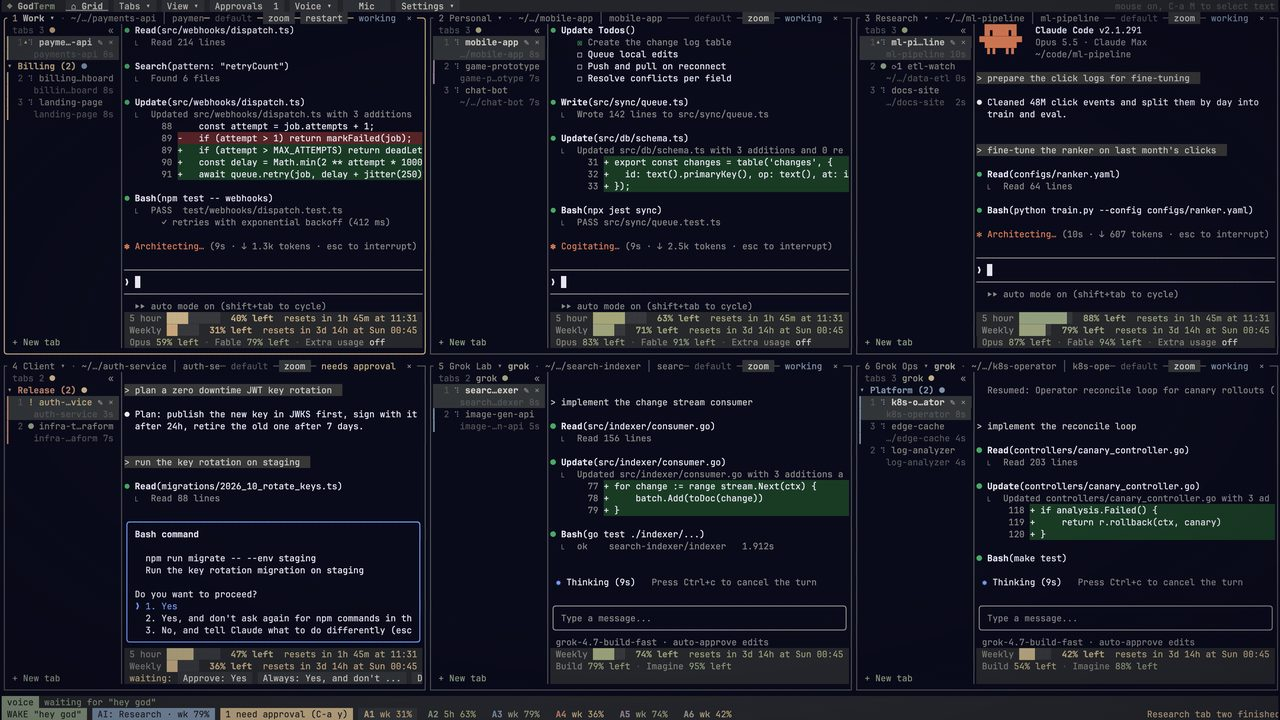
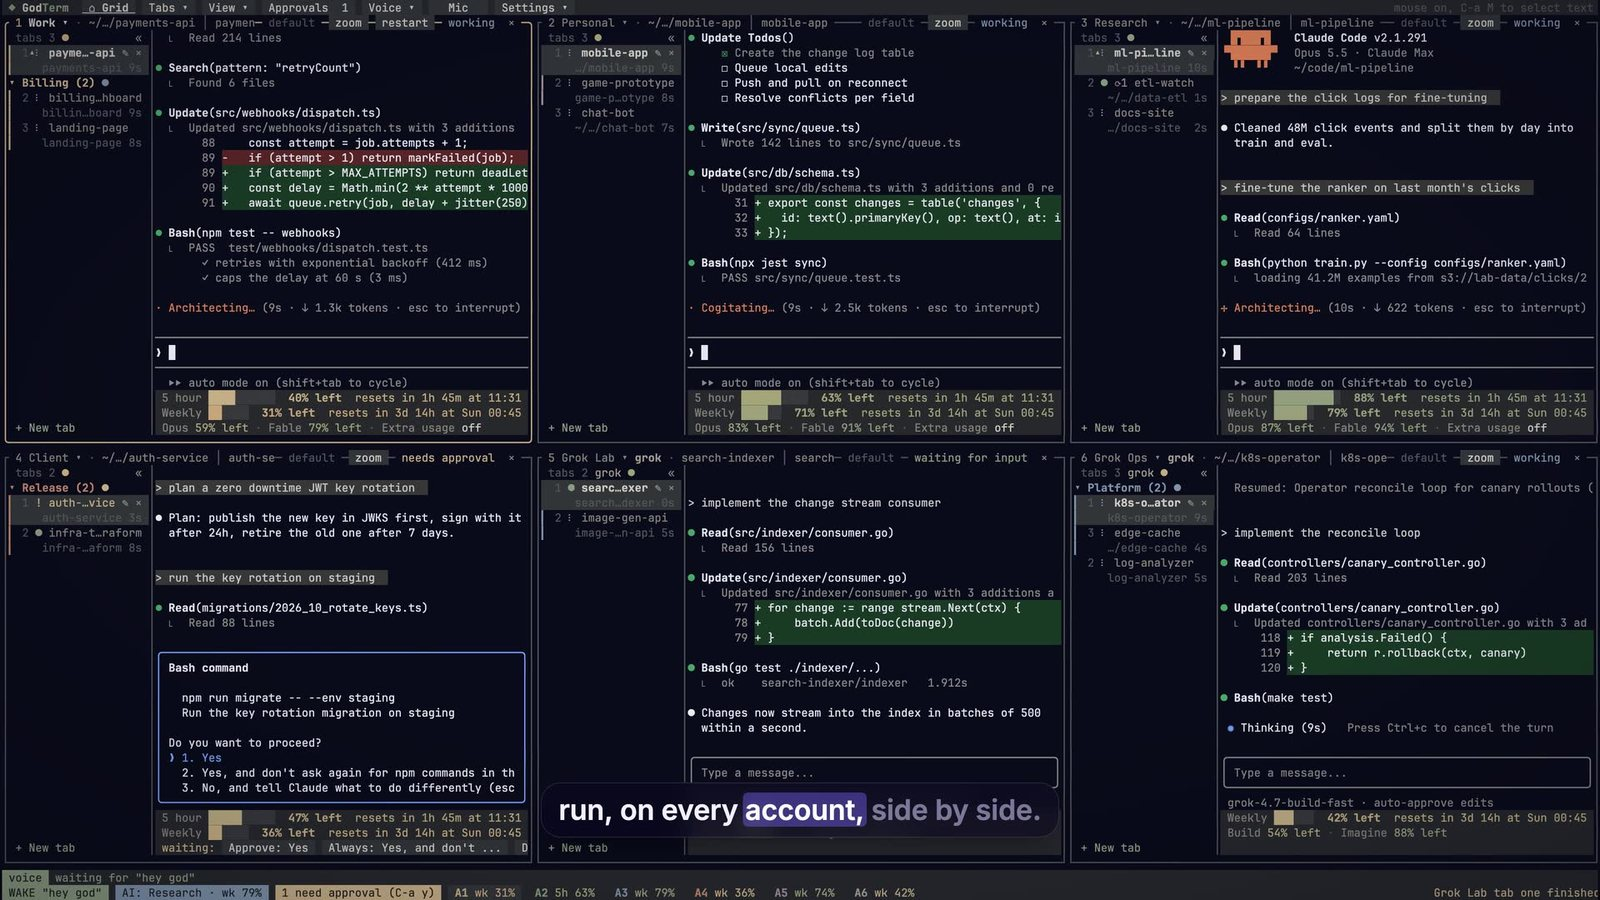
README: the demo video (poster linked to godterm.com and the release MP4)

diff --git a/README.md b/README.md
@@ -18,7 +18,7 @@
 <p align="center">
   <a href="https://godterm.com/#demo"><img src="docs/media/demo-poster.jpg" width="820" alt="GodTerm demo: click to watch"></a>
   <br>
-  <sub><a href="https://godterm.com/#demo">Watch the demo</a> · <a href="https://github.com/daniel-farina/godterm/releases/download/v0.2.0/godterm-demo.mp4">download the MP4</a></sub>
+  <sub><a href="https://godterm.com/#demo">Watch the 2 minute demo</a> · <a href="https://github.com/daniel-farina/godterm/releases/download/v0.2.0/godterm-demo.mp4">or download the MP4 (1080p)</a></sub>
 </p>
 
 GodTerm is a terminal app for people who run Claude Code (and Grok Build)
